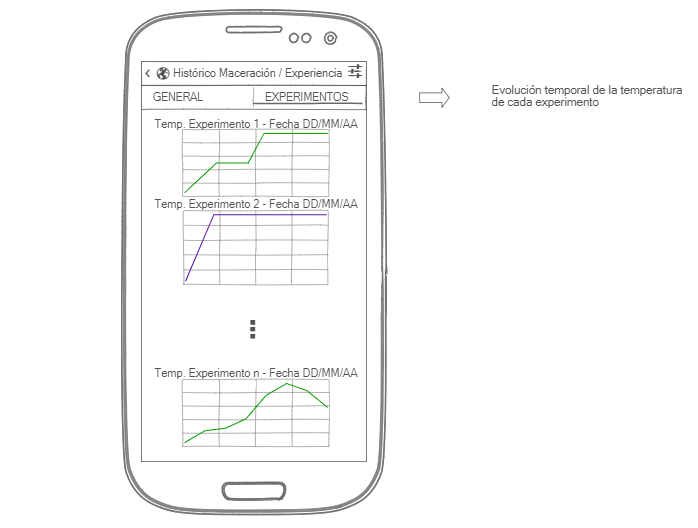
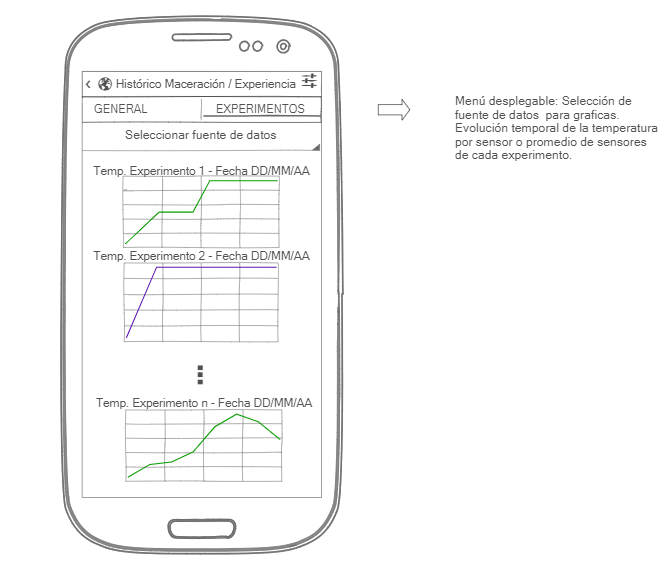
Se agregaron las descripciones a las pantallas de la Sección de Software

Changed region(s): [[0.0898, 0.0, 0.6587, 1.0], [0.6587, 0.1515, 0.988, 0.303]]

diff --git a/software/software.tex b/software/software.tex
@@ -145,7 +145,7 @@
                 \par Para eliminar un elemento de esta lista, se debe mantener presionado el mismo y seleccionar la opción ``Eliminar grano'' del menú contextual (Figura X).
                 
                 \paragraph{Definir intervalos con sus parámetros:}
-                Para el agregado de intervalos debe seleccionarse el botón con el signo "+", esto desplegará un dialogo tipo pop-up, Figura X, donde podrán encontrarse los campos necesarios para definir un intervalo. Pueden ser agregados uno o mas intervalos según corresponda al tipo y receta de maceración a ser realizada.
+                Para el agregado de intervalos debe seleccionarse el botón con el signo ``+'', esto desplegará un dialogo tipo pop-up, Figura X, donde podrán encontrarse los campos necesarios para definir un intervalo. Pueden ser agregados uno o mas intervalos según corresponda al tipo y receta de maceración a ser realizada.
                 
                 \paragraph{Finalizar planificación:}
                 Al finalizar el ingreso de datos, ser presionará el botón para finalizar, antes mencionado, esto desplegará un dialogo tipo pop-up donde deberán ser ingresados los campos nombre de la maceración, intervalo de medición de temperatura e intervalo de medición de pH. Luego del ingreso de los datos, presionando el botón ``Aceptar'' dará por concluido el ingreso de datos y se retornará al \textit{Main Activity}.
@@ -158,22 +158,80 @@
         
         \subsection{Pantalla de gestión de maceración}
             \subsubsection{Descripción}
-                \par Es la pantalla donde se gestiona la maceración seleccionada.
-                \par Para la implementación se utiliza un Activity denominado \textit{ExperimentActivity}. En la misma se puede visualizar en primer lugar un ActionBar donde se indica el nombre de la maceración y que incluye además una serie de botones para acceder al detalle de la maceración, ingresar a la pantalla de información histórica y estadística de los experimentos realizados, y por último eliminar la maceración. En el área restante de la pantalla puede encontrarse una lista con los experimentos realizados, y un botón flotante en la parte inferior que permite iniciar un nuevo experimento y acceder de esta manera a la pantalla correspondiente.
+                \par Es la pantalla de administración para la maceración seleccionada.
+                \par Para la implementación se utiliza un Activity denominado \textit{ExperimentActivity}. En la misma puede ser visualizado en primer lugar un ActionBar donde se indica el nombre de la maceración y que incluye además una serie de botones: acceso a la pantalla de detalle de la maceración, ingreso a la pantalla de información histórica y estadística de los experimentos realizados, y por último, la opción de eliminar la maceración. En el área restante de la pantalla puede encontrarse una lista con los experimentos realizados, y un botón flotante en la parte inferior que permite iniciar un nuevo experimento y acceder de esta manera a la pantalla correspondiente.
                 
                 
             \subsubsection{Funciones}
                 \paragraph{Lista de experimentos realizados:}
-                Cada una de los experimentos listados es un botón clickeable que permite el acceso a la pantalla de gestión de la maceración seleccionada.
-                \paragraph{Agregar nueva maceración:}
-                Al seleccionar el botón, se accede a la pantalla que permite crear una nueva maceración.
-                \paragraph{Medición actual:}
-                Dialogo pop up que muestra los valores obtenidos por cada sensor, Figura X.
+                Cada una de los experimentos listados es un botón sensible a ser presionado que permite el acceso a la pantalla de resultados del experimento pulsado (Figura X).
+                
+                \paragraph{Eliminar experimento:}
+                 Como se mencionó en el punto anterior, cada una de los experimentos listados es un botón sensible a ser presionado. Si la duración de esta selección supera los dos segundos, se procede a borrar el experimento seleccionado de la lista y de la base de datos.
+                 
+                \paragraph{Detalle del plan de maceración:}
+                 Pantalla en la cual pueden ser visualizados los valores ingresados en la planificación de la maceración; el volumen y temperatura de agua a ser incorporada en cada etapa; y la cantidad de cada tipo de grano a ser utilizado.
+                
+                \paragraph{Información histórica y estadística:}
+                Acceso a la pantalla de información histórica y estadística correspondiente a la maceración. (Figura X)
+                
+                \paragraph{Eliminar maceración:}
+                Al seleccionarse la opción presente en el ActionBar, se procede a eliminar la maceración actual en conjunto con todos los datos ligados a la misma (experimentos realizados y datos inherentes a la planificación de la misma)
+                
+                \paragraph{Iniciar nuevo experimento}
+                Ingreso a la pantalla de monitoreo del experimento a ser iniciado (Figura X).
             
             \subsubsection{Detalle de implementación}
                 En el diagrama X ubicado en el Anexo, pueden observarse las clases y funciones utilizadas para el despliegue de esta pantalla.
             
-        \subsection{Pantalla}
+        \subsection{Pantalla de detalle de maceración}
             \subsubsection{Descripción}
-            \subsubsection{Funciones}
+            Es la pantalla donde se presentan los datos ingresados para esta maceración en la planificación, junto a otros datos calculados.
+            En la misma puede ser visualizarse en la parte superior el \textit{ActionBar} donde se indica el nombre de la Maceración. Luego, en el espacio restante se presentan los siguientes valores: tipo de maceración; volumen de mosto; densidad específica deseada; información de los granos a utilizar (nombre, cantidad teórica y, en caso de haber realizado mas de tres experimentos, la cantidad ajustada); e información de los intervalos (duración, temperatura y pH deseados con sus respectivas tolerancias de desvío, volumen y temperatura del agua a ser incorporada, y en caso de maceración por decocción, la temperatura del segundo macerador).
+            
             \subsubsection{Detalle de implementación}
+            
+        \subsection{Pantalla de información estadística e histórica}
+            \subsubsection{Descripción}
+            En esta pantalla puede ser visualizado un resumen de los experimentos llevados a cabo para la correspondiente maceración.
+            En esta pantalla puede visualizarse un \textit{ActionBar} en la parte superior con el nombre de la maceración. Debajo, dos botones tipo pestañas (\textit{TabLayout}) que permiten acceder a los dos paneles (\textit{Fragments}), Resumen General y Detalle de temperatura de cada experimento. 
+            Se divide en dos paneles (\textit{Fragments}): Resumen general y Detalle de temperatura por experimento.
+            
+            \paragraph{Resumen general:} En este panel en primer lugar se ubica un botón que permite alternar entre los dos tipos de gráficas comparativas de la evolución promedio de cada variable (gráfica de líneas y gráfico estadístico descriptivo Boxplot\footnote{También conocido como gráfico de caja y bigote (representa valores extremos y el 1$^{\circ}$, 2$^{\circ}$ y 3$^{\circ}$ cuartil)}). Luego de este, se presentan las siguientes gráficas: Temperatura; pH; y Activación de enzimas. Finalmente, se presenta una serie de valores calculados a partir de los mismos valores que conforman las gráficas, estos son: Número de experimentos válidos; Rendimiento del equipo\footnote{Este valor comienza a ajustarse a partir del tercer experimento válido de una maceración}; Cálculo Teórico de insumos con rendimiento no ajustado \footnote{El ajuste se realiza tomando como rendimiento del equipo el valor de rendimiento calculado, en lugar del estándar 70\%}; Cálculo Teórico de insumos con rendimiento ajustado; por último el calculo práctico de cantidad de insumos. 
+            
+            \paragraph{Detalle de temperatura por experimento:} En este puede encontrarse en el borde superior un menú desplegable (\textit{Spinner}), el cual permite seleccionar el tipo de gráficas a ser comparadas luego, pudiendo ser de cada sensor o del promedio de sensores para cada muestra. De esta manera permite compara el/los mismo/s sensores entre diferentes experimentos. Debajo, se presentan las gráficas por experimento antes mencionadas.
+            
+            \subsubsection{Funciones}
+            \paragraph{Visualización de gráficas de variables:}
+              En el resumen general, se presentan gráficas de los valores promedios de las variables antes mencionadas respecto al tiempo. Se consideran para estas solo los experimentos válidos\footnote{Se consideran válidos aquellos experimentos, que cumplan con la cantidad de mediciones e incluyan el valor de densidad obtenida.} de esta maceración.
+            
+            \subsubsection{Detalle de implementación}
+            
+        \subsection{Pantalla de resultados de experimento}
+            \subsubsection{Descripción}
+            En esta pantalla puede ser viualizado un resumen de los resultados obtenidos en este experimento.
+            En el borde superior se ubica un \textit{ActionBar} con el la fecha y horario del experimento, debajo se presentan los valores temperatura ambiental, densidad específica del mosto y rendimiento obtenido. En forma posterior, se ubican representaciones gráficas de la evolución temporal de las variables temperatura, pH y activación de enzimas para este experimento, seguidas de la evolución temporal de la temperatura de cada sensor.
+            
+            \subsubsection{Detalle de implementación}
+            
+        \subsection{Pantalla de monitoreo de experimento}
+            \subsubsection{Descripción}
+            Esta pantalla es la encargada de asistir al usuario con el experimento en curso.
+            En esta pantalla puede visualizarse un \textit{ActionBar} en la parte superior con el nombre de la maceración, seguido de dos botones, el primero para cancelar el experimento en curso y el segundo para confirmar la conclusión del experimento. Debajo, dos botones tipo pestañas (\textit{TabLayout}) que permiten acceder a los dos paneles (\textit{Fragments}), Mediciones y Etapas.
+            
+            \paragraph{Mediciones:}
+            En este panel se visualizan los valores obtenidos a través de la estación de recolección de datos para el experimento en curso. Además, enseña dentro de tarjetas (\textit{CardViews}) el porcentaje de avance en el que se encuentre la maceración, los valores planificados para dicho momento y el correspondiente desvío con los valores recolectados.
+            \paragraph{Etapas:}
+            En este panel se visualiza un resumen de las etapas que componen la maceración, adicionando temporizadores correspondientes al tiempo restante para el inicio de cada una de las mismas.
+            
+            \subsubsection{Funciones}
+            \paragraph{Configuración de medición de temperatura:} Manteniendo presionada la tarjeta perteneciente a la temperatura, se abre un dialogo de selección, el cual permite elegir los métodos de representación de los valores de temperatura para monitoreo. Estos pueden ser: promedio, mediana, promedio de valores extremos, y finalmente permite seleccionar los sensores incoroporados o exceptuados del cálculo.
+            \paragraph{Alerta:} 
+            En caso de obtenerse un valor fuera de la tolerancia planificada, se muestra una notificación en el dispositivo correspondiente a la variable fuera de rango. 
+            \paragraph{Finalizar experimento:}
+            Al seleccionar esta opción, en caso que se hayan realizado todas las mediciones del experimento, se muestra un dialogo para que el usuario ingrese el valor de densidad especifica del mosto obtenida. En caso de no haber completado las mediciones, se enseña un mensaje indicando dicha situación.
+            \paragraph{Cancelar experimento:} 
+            Esta función permite abortar el experimento en curso. Una vez cancelado, se procede a la eliminación de todos los datos relacionados al experimento cancelado.
+            
+            \subsubsection{Detalle de implementación}
+            

diff --git a/Anexo/anexo.tex b/Anexo/anexo.tex
@@ -91,7 +91,13 @@
         \captionof{figure}{Pantalla con información estadística descriptiva de mediciones de temperatura de cada experimento}
         \label{fig:MockUpExperimentFragment}
     \end{minipage}
-   
+   \begin{minipage}{0.95\textwidth}
+
+        \centering
+        \includegraphics[scale=0.7]{Anexo/DetailExperimentActivity.jpg}
+        \captionof{figure}{Pantalla con información detalladas de los resultados de cada experimento}
+        \label{fig:DetailExperimentActivity}
+    \end{minipage}
  
     
     
